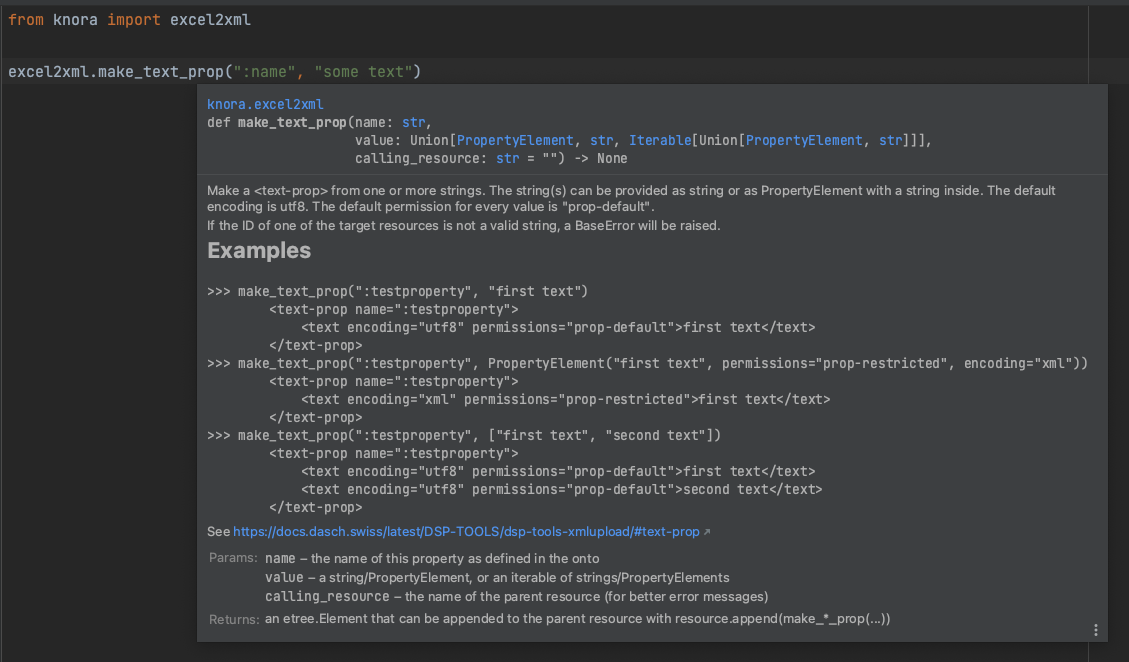
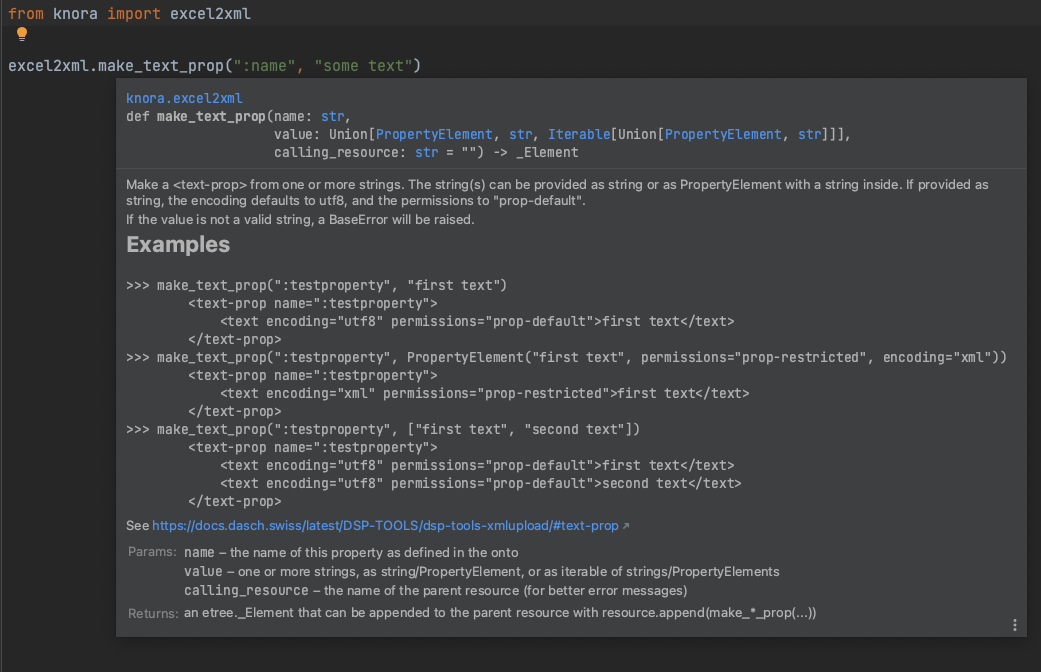
improve typing hints

Changed region(s): [[0.0, 0.0906, 1.0, 0.9668], [0.0, 0.0, 0.2459, 0.0604]]

diff --git a/knora/excel2xml.py b/knora/excel2xml.py
@@ -238,7 +238,7 @@ def prepare_value(
     return [x if isinstance(x, PropertyElement) else PropertyElement(x) for x in value]
 
 
-def make_root(shortcode: str, default_ontology: str) -> etree.Element:
+def make_root(shortcode: str, default_ontology: str) -> etree._Element:
     """
     Start building your XML document by creating the root element <knora>.
 
@@ -270,7 +270,7 @@ def make_root(shortcode: str, default_ontology: str) -> etree.Element:
     return root
 
 
-def append_permissions(root_element: etree.Element) -> etree.Element:
+def append_permissions(root_element: etree.Element) -> etree._Element:
     """
     After having created a root element, call this method to append the four permissions "res-default",
     "res-restricted", "prop-default", and "prop-restricted" to it. These four permissions are a good basis to
@@ -332,7 +332,7 @@ def make_resource(
     permissions: str = "res-default",
     ark: Optional[str] = None,
     iri: Optional[str] = None
-) -> etree.Element:
+) -> etree._Element:
     """
     Creates an empty resource element, with the attributes as specified by the arguments
 
@@ -377,7 +377,7 @@ def make_bitstream_prop(
     path: str,
     permissions: str = "prop-default",
     calling_resource: str = ""
-) -> etree.Element:
+) -> etree._Element:
     """
     Creates a bitstream element that points to "path". If "path" doesn't point to a valid file, a warning will be
     printed to the console, but the script will continue.
@@ -388,7 +388,7 @@ def make_bitstream_prop(
         calling_resource: the name of the parent resource (for better error messages)
 
     Returns:
-        an etree.Element that can be appended to the parent resource with resource.append(make_*_prop(...))
+        an etree._Element that can be appended to the parent resource with resource.append(make_*_prop(...))
 
     Examples:
         >>> resource = make_resource(...)
@@ -424,7 +424,7 @@ def make_boolean_prop(
     name: str,
     value: Union[PropertyElement, str, int, bool],
     calling_resource: str = ""
-) -> etree.Element:
+) -> etree._Element:
     """
     Make a <boolean-prop> from a boolean value. The value can be provided directly or inside a PropertyElement. The
     following formats are supported:
@@ -433,7 +433,7 @@ def make_boolean_prop(
 
     If the value is not a valid boolean, a BaseError will be raised.
 
-    Unless provided as PropertyElement, the permission of the value defaults to "prop-default".
+    Unless provided as PropertyElement, the permissions of the value default to "prop-default".
 
     Args:
         name: the name of this property as defined in the onto
@@ -441,7 +441,7 @@ def make_boolean_prop(
         calling_resource: the name of the parent resource (for better error messages)
 
     Returns:
-        an etree.Element that can be appended to the parent resource with resource.append(make_*_prop(...))
+        an etree._Element that can be appended to the parent resource with resource.append(make_*_prop(...))
 
     Examples:
         >>> make_boolean_prop(":testproperty", "no")
@@ -489,10 +489,10 @@ def make_color_prop(
     name: str,
     value: Union[PropertyElement, str, Iterable[Union[PropertyElement, str]]],
     calling_resource: str = ""
-) -> etree.Element:
+) -> etree._Element:
     """
     Make a <color-prop> from one or more colors. The color(s) can be provided as string or as PropertyElement with a
-    string inside. If provided as string, the permission defaults to "prop-default".
+    string inside. If provided as string, the permissions default to "prop-default".
 
     If the value is not a valid color, a BaseError will be raised.
 
@@ -502,7 +502,7 @@ def make_color_prop(
         calling_resource: the name of the parent resource (for better error messages)
 
     Returns:
-        an etree.Element that can be appended to the parent resource with resource.append(make_*_prop(...))
+        an etree._Element that can be appended to the parent resource with resource.append(make_*_prop(...))
 
     Examples:
         >>> make_color_prop(":testproperty", "#00ff66")
@@ -556,10 +556,10 @@ def make_date_prop(
     name: str,
     value: Union[PropertyElement, str, Iterable[Union[PropertyElement, str]]],
     calling_resource: str = ""
-) -> etree.Element:
+) -> etree._Element:
     """
     Make a <date-prop> from one or more dates/date ranges. The date(s) can be provided as string or as PropertyElement
-    with a string inside. If provided as string, the permission defaults to "prop-default".
+    with a string inside. If provided as string, the permissions default to "prop-default".
 
     If the value is not a valid DSP date, a BaseError will be raised.
 
@@ -569,7 +569,7 @@ def make_date_prop(
         calling_resource: the name of the parent resource (for better error messages)
 
     Returns:
-        an etree.Element that can be appended to the parent resource with resource.append(make_*_prop(...))
+        an etree._Element that can be appended to the parent resource with resource.append(make_*_prop(...))
 
     Examples:
         >>> make_date_prop(":testproperty", "GREGORIAN:CE:2014-01-31")
@@ -630,10 +630,10 @@ def make_decimal_prop(
     name: str,
     value: Union[PropertyElement, str, Iterable[Union[PropertyElement, str]]],
     calling_resource: str = ""
-) -> etree.Element:
+) -> etree._Element:
     """
     Make a <decimal-prop> from one or more decimal numbers. The decimal(s) can be provided as string, float, or as
-    PropertyElement with a string/float inside. If provided as string/float, the permission defaults to
+    PropertyElement with a string/float inside. If provided as string/float, the permissions default to
     "prop-default".
 
     If the value is not a valid decimal number, a BaseError will be raised.
@@ -644,7 +644,7 @@ def make_decimal_prop(
         calling_resource: the name of the parent resource (for better error messages)
 
     Returns:
-        an etree.Element that can be appended to the parent resource with resource.append(make_*_prop(...))
+        an etree._Element that can be appended to the parent resource with resource.append(make_*_prop(...))
 
     Examples:
         >>> make_decimal_prop(":testproperty", "3.14159")
@@ -698,10 +698,10 @@ def make_geometry_prop(
     name: str,
     value: Union[PropertyElement, str, Iterable[Union[PropertyElement, str]]],
     calling_resource: str = ""
-) -> etree.Element:
+) -> etree._Element:
     """
     Make a <geometry-prop> from one or more areas of an image. The area(s) can be provided as JSON-string or as
-    PropertyElement with the JSON-string inside. If provided as string, the permission defaults to "prop-default".
+    PropertyElement with the JSON-string inside. If provided as string, the permissions default to "prop-default".
 
     If the value is not a valid JSON geometry object, a BaseError is raised.
 
@@ -711,7 +711,7 @@ def make_geometry_prop(
         calling_resource: the name of the parent resource (for better error messages)
 
     Returns:
-        an etree.Element that can be appended to the parent resource with resource.append(make_*_prop(...))
+        an etree._Element that can be appended to the parent resource with resource.append(make_*_prop(...))
 
     Examples:
         >>> make_geometry_prop(":testproperty", json_string)
@@ -768,10 +768,10 @@ def make_geoname_prop(
     name: str,
     value: Union[PropertyElement, str, int, Iterable[Union[PropertyElement, str, int]]],
     calling_resource: str = ""
-) -> etree.Element:
+) -> etree._Element:
     """
     Make a <geoname-prop> from one or more geonames.org IDs. The ID(s) can be provided as string, integer, or as
-    PropertyElement with a string/integer inside. If provided as string/integer, the permission defaults to
+    PropertyElement with a string/integer inside. If provided as string/integer, the permissions default to
     "prop-default".
 
     If the value is not a valid geonames.org identifier, a BaseError will be raised.
@@ -782,7 +782,7 @@ def make_geoname_prop(
         calling_resource: the name of the parent resource (for better error messages)
 
     Returns:
-        an etree.Element that can be appended to the parent resource with resource.append(make_*_prop(...))
+        an etree._Element that can be appended to the parent resource with resource.append(make_*_prop(...))
 
     Examples:
         >>> make_geoname_prop(":testproperty", "2761369")
@@ -836,10 +836,10 @@ def make_integer_prop(
     name: str,
     value: Union[PropertyElement, str, int, Iterable[Union[PropertyElement, str, int]]],
     calling_resource: str = ""
-) -> etree.Element:
+) -> etree._Element:
     """
     Make a <integer-prop> from one or more integers. The integers can be provided as string, integer, or as
-    PropertyElement with a string/integer inside. If provided as string/integer, the permission defaults to
+    PropertyElement with a string/integer inside. If provided as string/integer, the permissions default to
     "prop-default".
 
     If the value is not a valid integer, a BaseError will be raised.
@@ -850,7 +850,7 @@ def make_integer_prop(
         calling_resource: the name of the parent resource (for better error messages)
 
     Returns:
-        an etree.Element that can be appended to the parent resource with resource.append(make_*_prop(...))
+        an etree._Element that can be appended to the parent resource with resource.append(make_*_prop(...))
 
     Examples:
         >>> make_integer_prop(":testproperty", "2761369")
@@ -904,10 +904,10 @@ def make_interval_prop(
     name: str,
     value: Union[PropertyElement, str, Iterable[Union[PropertyElement, str]]],
     calling_resource: str = ""
-) -> etree.Element:
+) -> etree._Element:
     """
     Make a <interval-prop> from one or more DSP intervals. The interval(s) can be provided as string or as
-    PropertyElement with a string inside. If provided as string, the permission defaults to "prop-default".
+    PropertyElement with a string inside. If provided as string, the permissions default to "prop-default".
 
     If the value is not a valid DSP interval, a BaseError will be raised.
 
@@ -917,7 +917,7 @@ def make_interval_prop(
         calling_resource: the name of the parent resource (for better error messages)
 
     Returns:
-        an etree.Element that can be appended to the parent resource with resource.append(make_*_prop(...))
+        an etree._Element that can be appended to the parent resource with resource.append(make_*_prop(...))
 
     Examples:
         >>> make_interval_prop(":testproperty", "61:3600")
@@ -972,10 +972,10 @@ def make_list_prop(
     name: str,
     value: Union[PropertyElement, str, Iterable[Union[PropertyElement, str]]],
     calling_resource: str = ""
-) -> etree.Element:
+) -> etree._Element:
     """
     Make a <list-prop> from one or more list nodes. The name(s) of the list node(s) can be provided as string or as
-    PropertyElement with a string inside. If provided as string, the permission defaults to "prop-default".
+    PropertyElement with a string inside. If provided as string, the permissions default to "prop-default".
 
     If the name of one of the list nodes is not a valid string, a BaseError will be raised.
 
@@ -986,7 +986,7 @@ def make_list_prop(
         calling_resource: the name of the parent resource (for better error messages)
 
     Returns:
-        an etree.Element that can be appended to the parent resource with resource.append(make_*_prop(...))
+        an etree._Element that can be appended to the parent resource with resource.append(make_*_prop(...))
 
     Examples:
         >>> make_list_prop("mylist", ":testproperty", "first_node")
@@ -1041,10 +1041,10 @@ def make_resptr_prop(
     name: str,
     value: Union[PropertyElement, str, Iterable[Union[PropertyElement, str]]],
     calling_resource: str = ""
-) -> etree.Element:
+) -> etree._Element:
     """
     Make a <resptr-prop> from one or more IDs of other resources. The ID(s) can be provided as string or as
-    PropertyElement with a string inside. If provided as string, the permission defaults to "prop-default".
+    PropertyElement with a string inside. If provided as string, the permissions default to "prop-default".
 
     If the ID of one of the target resources is not a valid string, a BaseError will be raised.
 
@@ -1054,7 +1054,7 @@ def make_resptr_prop(
         calling_resource: the name of the parent resource (for better error messages)
 
     Returns:
-        an etree.Element that can be appended to the parent resource with resource.append(make_*_prop(...))
+        an etree._Element that can be appended to the parent resource with resource.append(make_*_prop(...))
 
     Examples:
         >>> make_resptr_prop(":testproperty", "resource_1")
@@ -1108,10 +1108,10 @@ def make_text_prop(
     name: str,
     value: Union[PropertyElement, str, Iterable[Union[PropertyElement, str]]],
     calling_resource: str = ""
-) -> etree.Element:
+) -> etree._Element:
     """
     Make a <text-prop> from one or more strings. The string(s) can be provided as string or as PropertyElement with a
-    string inside. If provided as string, the encoding defaults to utf8, and the permission to "prop-default".
+    string inside. If provided as string, the encoding defaults to utf8, and the permissions to "prop-default".
 
     If the value is not a valid string, a BaseError will be raised.
 
@@ -1121,7 +1121,7 @@ def make_text_prop(
         calling_resource: the name of the parent resource (for better error messages)
 
     Returns:
-        an etree.Element that can be appended to the parent resource with resource.append(make_*_prop(...))
+        an etree._Element that can be appended to the parent resource with resource.append(make_*_prop(...))
 
     Examples:
         >>> make_text_prop(":testproperty", "first text")
@@ -1179,10 +1179,10 @@ def make_time_prop(
     name: str,
     value: Union[PropertyElement, str, Iterable[Union[PropertyElement, str]]],
     calling_resource: str = ""
-) -> etree.Element:
+) -> etree._Element:
     """
     Make a <time-prop> from one or more datetime values of the form "2009-10-10T12:00:00-05:00". The time(s) can be
-    provided as string or as PropertyElement with a string inside. If provided as string, the permission defaults to
+    provided as string or as PropertyElement with a string inside. If provided as string, the permissions default to
     "prop-default".
 
     If one of the values is not a valid DSP time string, a BaseError will be raised.
@@ -1193,7 +1193,7 @@ def make_time_prop(
         calling_resource: the name of the parent resource (for better error messages)
 
     Returns:
-        an etree.Element that can be appended to the parent resource with resource.append(make_*_prop(...))
+        an etree._Element that can be appended to the parent resource with resource.append(make_*_prop(...))
 
     Examples:
         >>> make_time_prop(":testproperty", "2009-10-10T12:00:00-05:00")
@@ -1255,10 +1255,10 @@ def make_uri_prop(
     name: str,
     value: Union[PropertyElement, str, Iterable[Union[PropertyElement, str]]],
     calling_resource: str = ""
-) -> etree.Element:
+) -> etree._Element:
     """
     Make an <uri-prop> from one or more URIs. The URI(s) can be provided as string or as PropertyElement with a string
-    inside. If provided as string, the permission defaults to "prop-default".
+    inside. If provided as string, the permissions default to "prop-default".
 
     If one of the values is not a valid URI, a BaseError will be raised.
 
@@ -1268,7 +1268,7 @@ def make_uri_prop(
         calling_resource: the name of the parent resource (for better error messages)
 
     Returns:
-        an etree.Element that can be appended to the parent resource with resource.append(make_*_prop(...))
+        an etree._Element that can be appended to the parent resource with resource.append(make_*_prop(...))
 
     Examples:
         >>> make_uri_prop(":testproperty", "www.test.com")
@@ -1327,7 +1327,7 @@ def make_region(
     permissions: str = "res-default",
     ark: Optional[str] = None,
     iri: Optional[str] = None
-) -> etree.Element:
+) -> etree._Element:
     """
     Creates an empty region element, with the attributes as specified by the arguments
 
@@ -1376,7 +1376,7 @@ def make_annotation(
     permissions: str = "res-default",
     ark: Optional[str] = None,
     iri: Optional[str] = None
-) -> etree.Element:
+) -> etree._Element:
     """
     Creates an empty annotation element, with the attributes as specified by the arguments
 
@@ -1423,7 +1423,7 @@ def make_link(
     permissions: str = "res-default",
     ark: Optional[str] = None,
     iri: Optional[str] = None
-) -> etree.Element:
+) -> etree._Element:
     """
     Creates an empty link element, with the attributes as specified by the arguments
 
